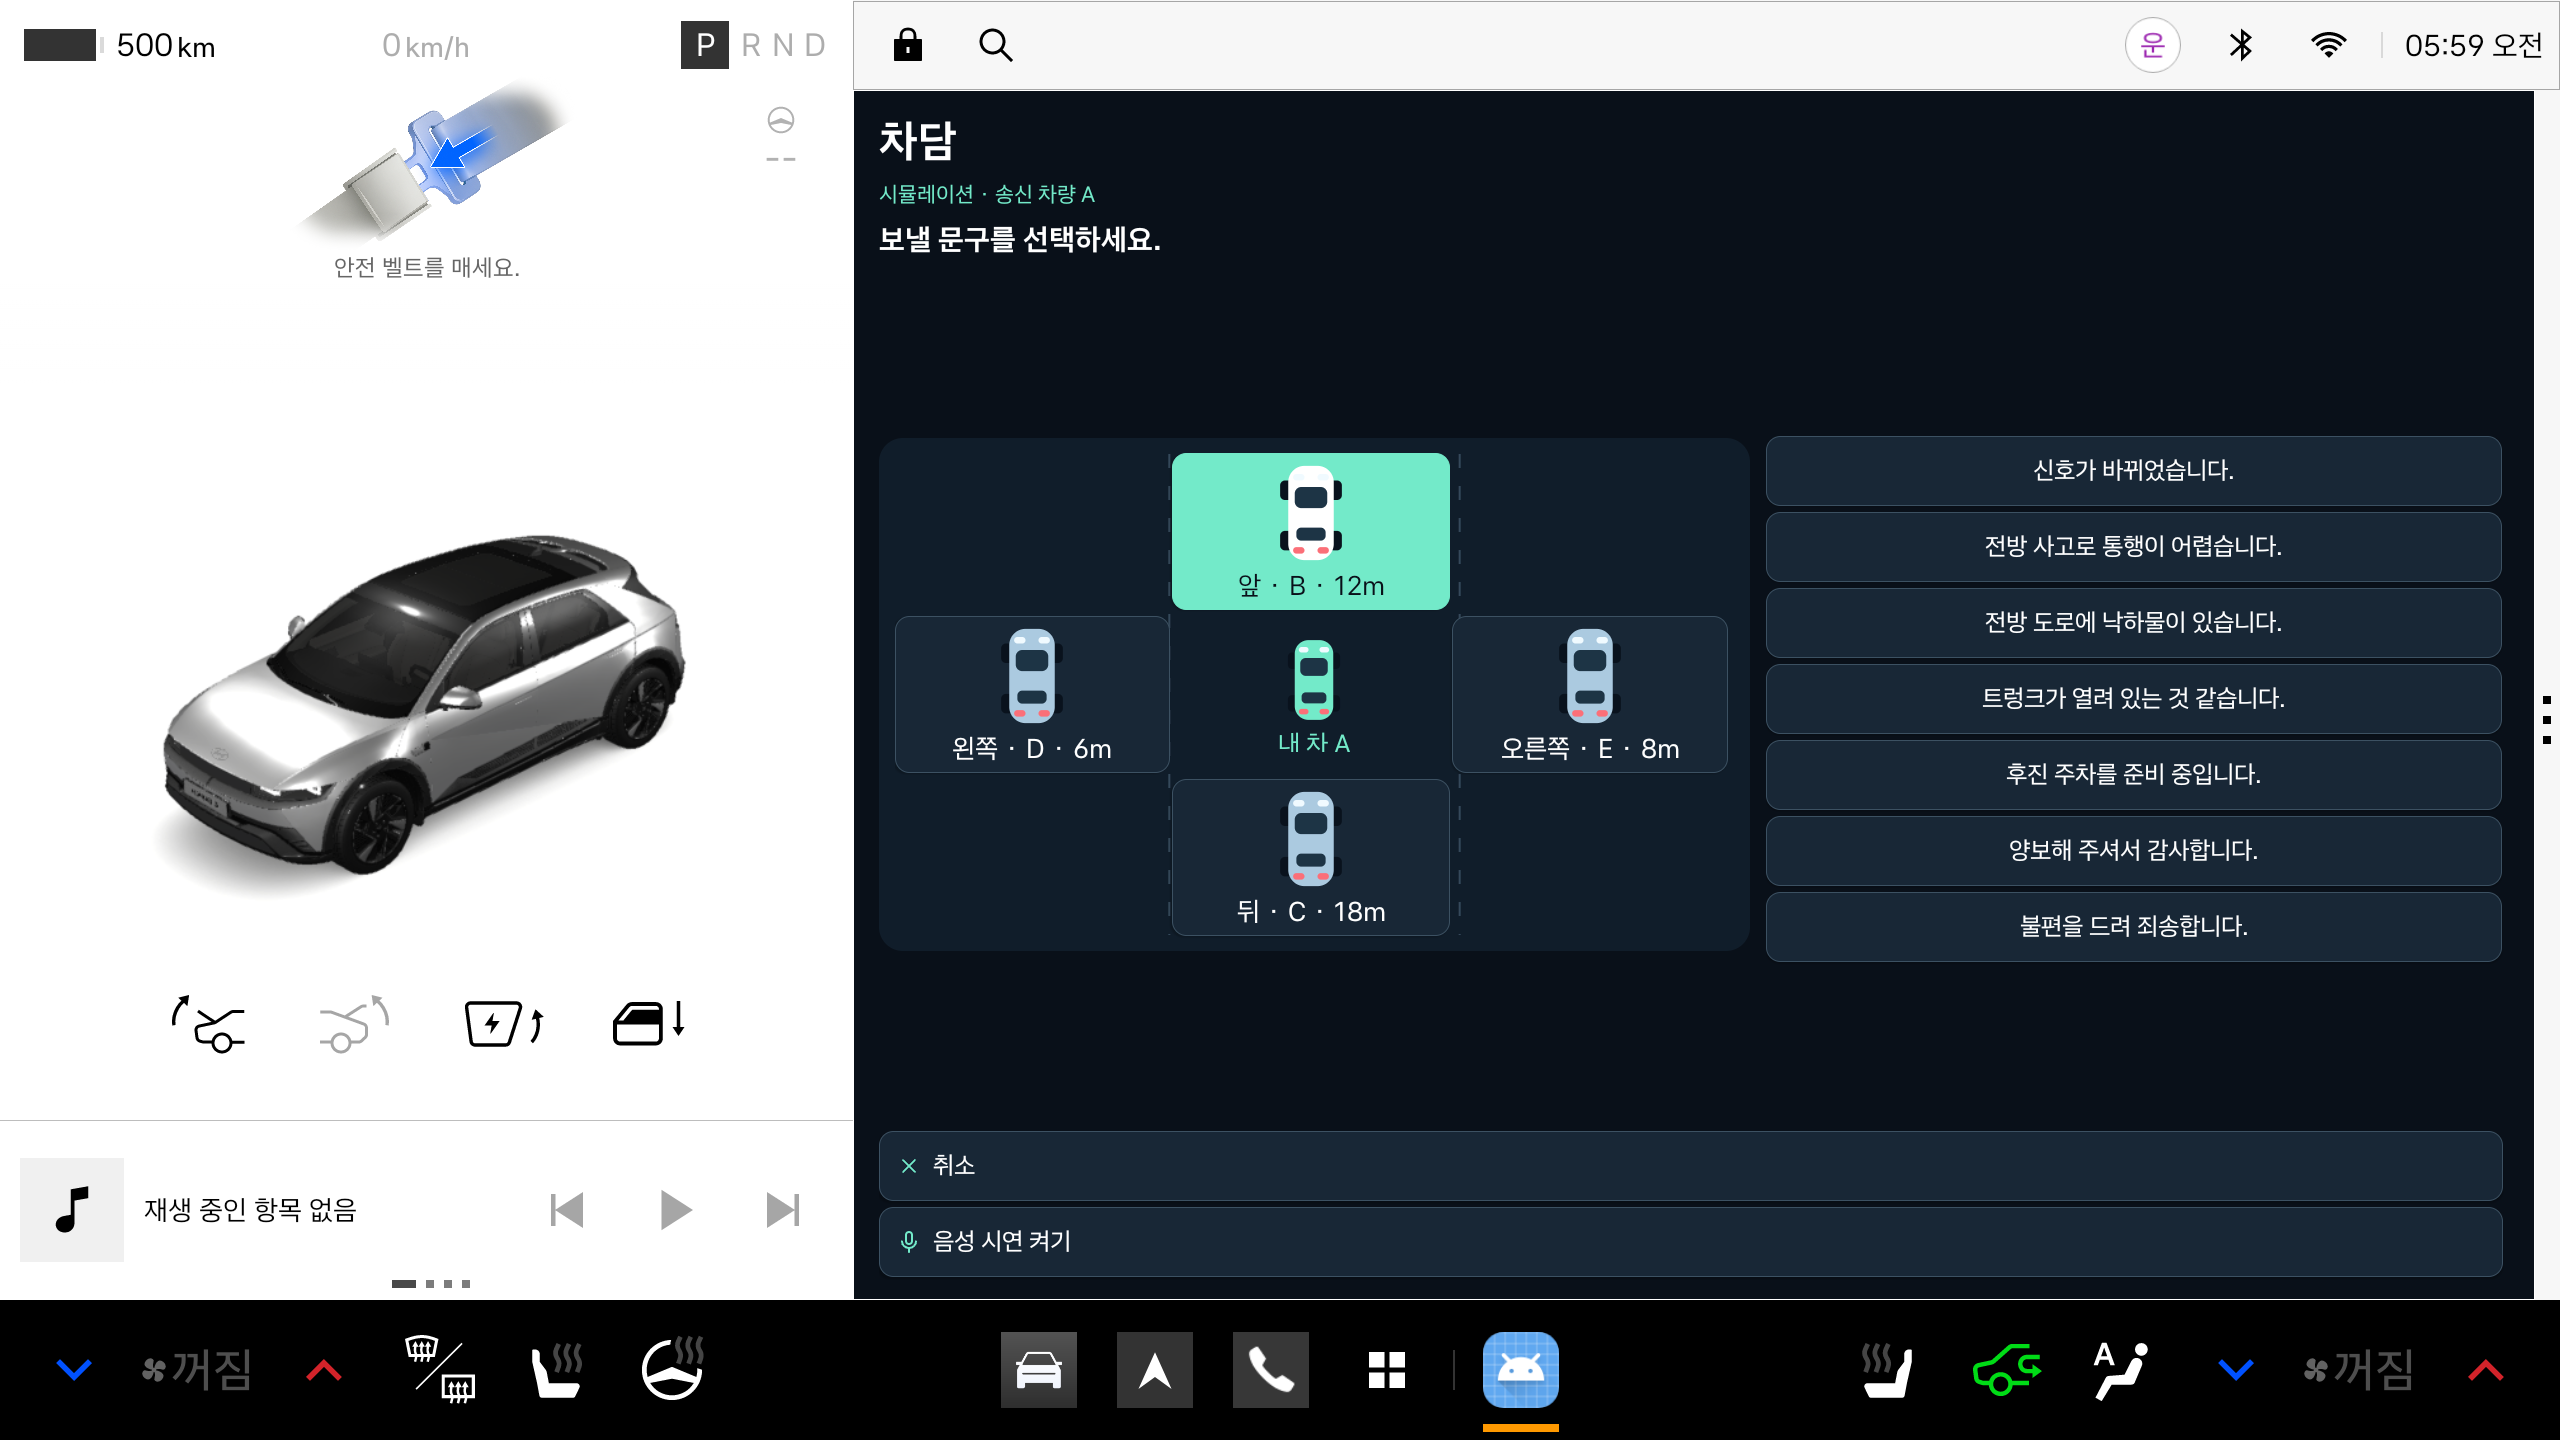
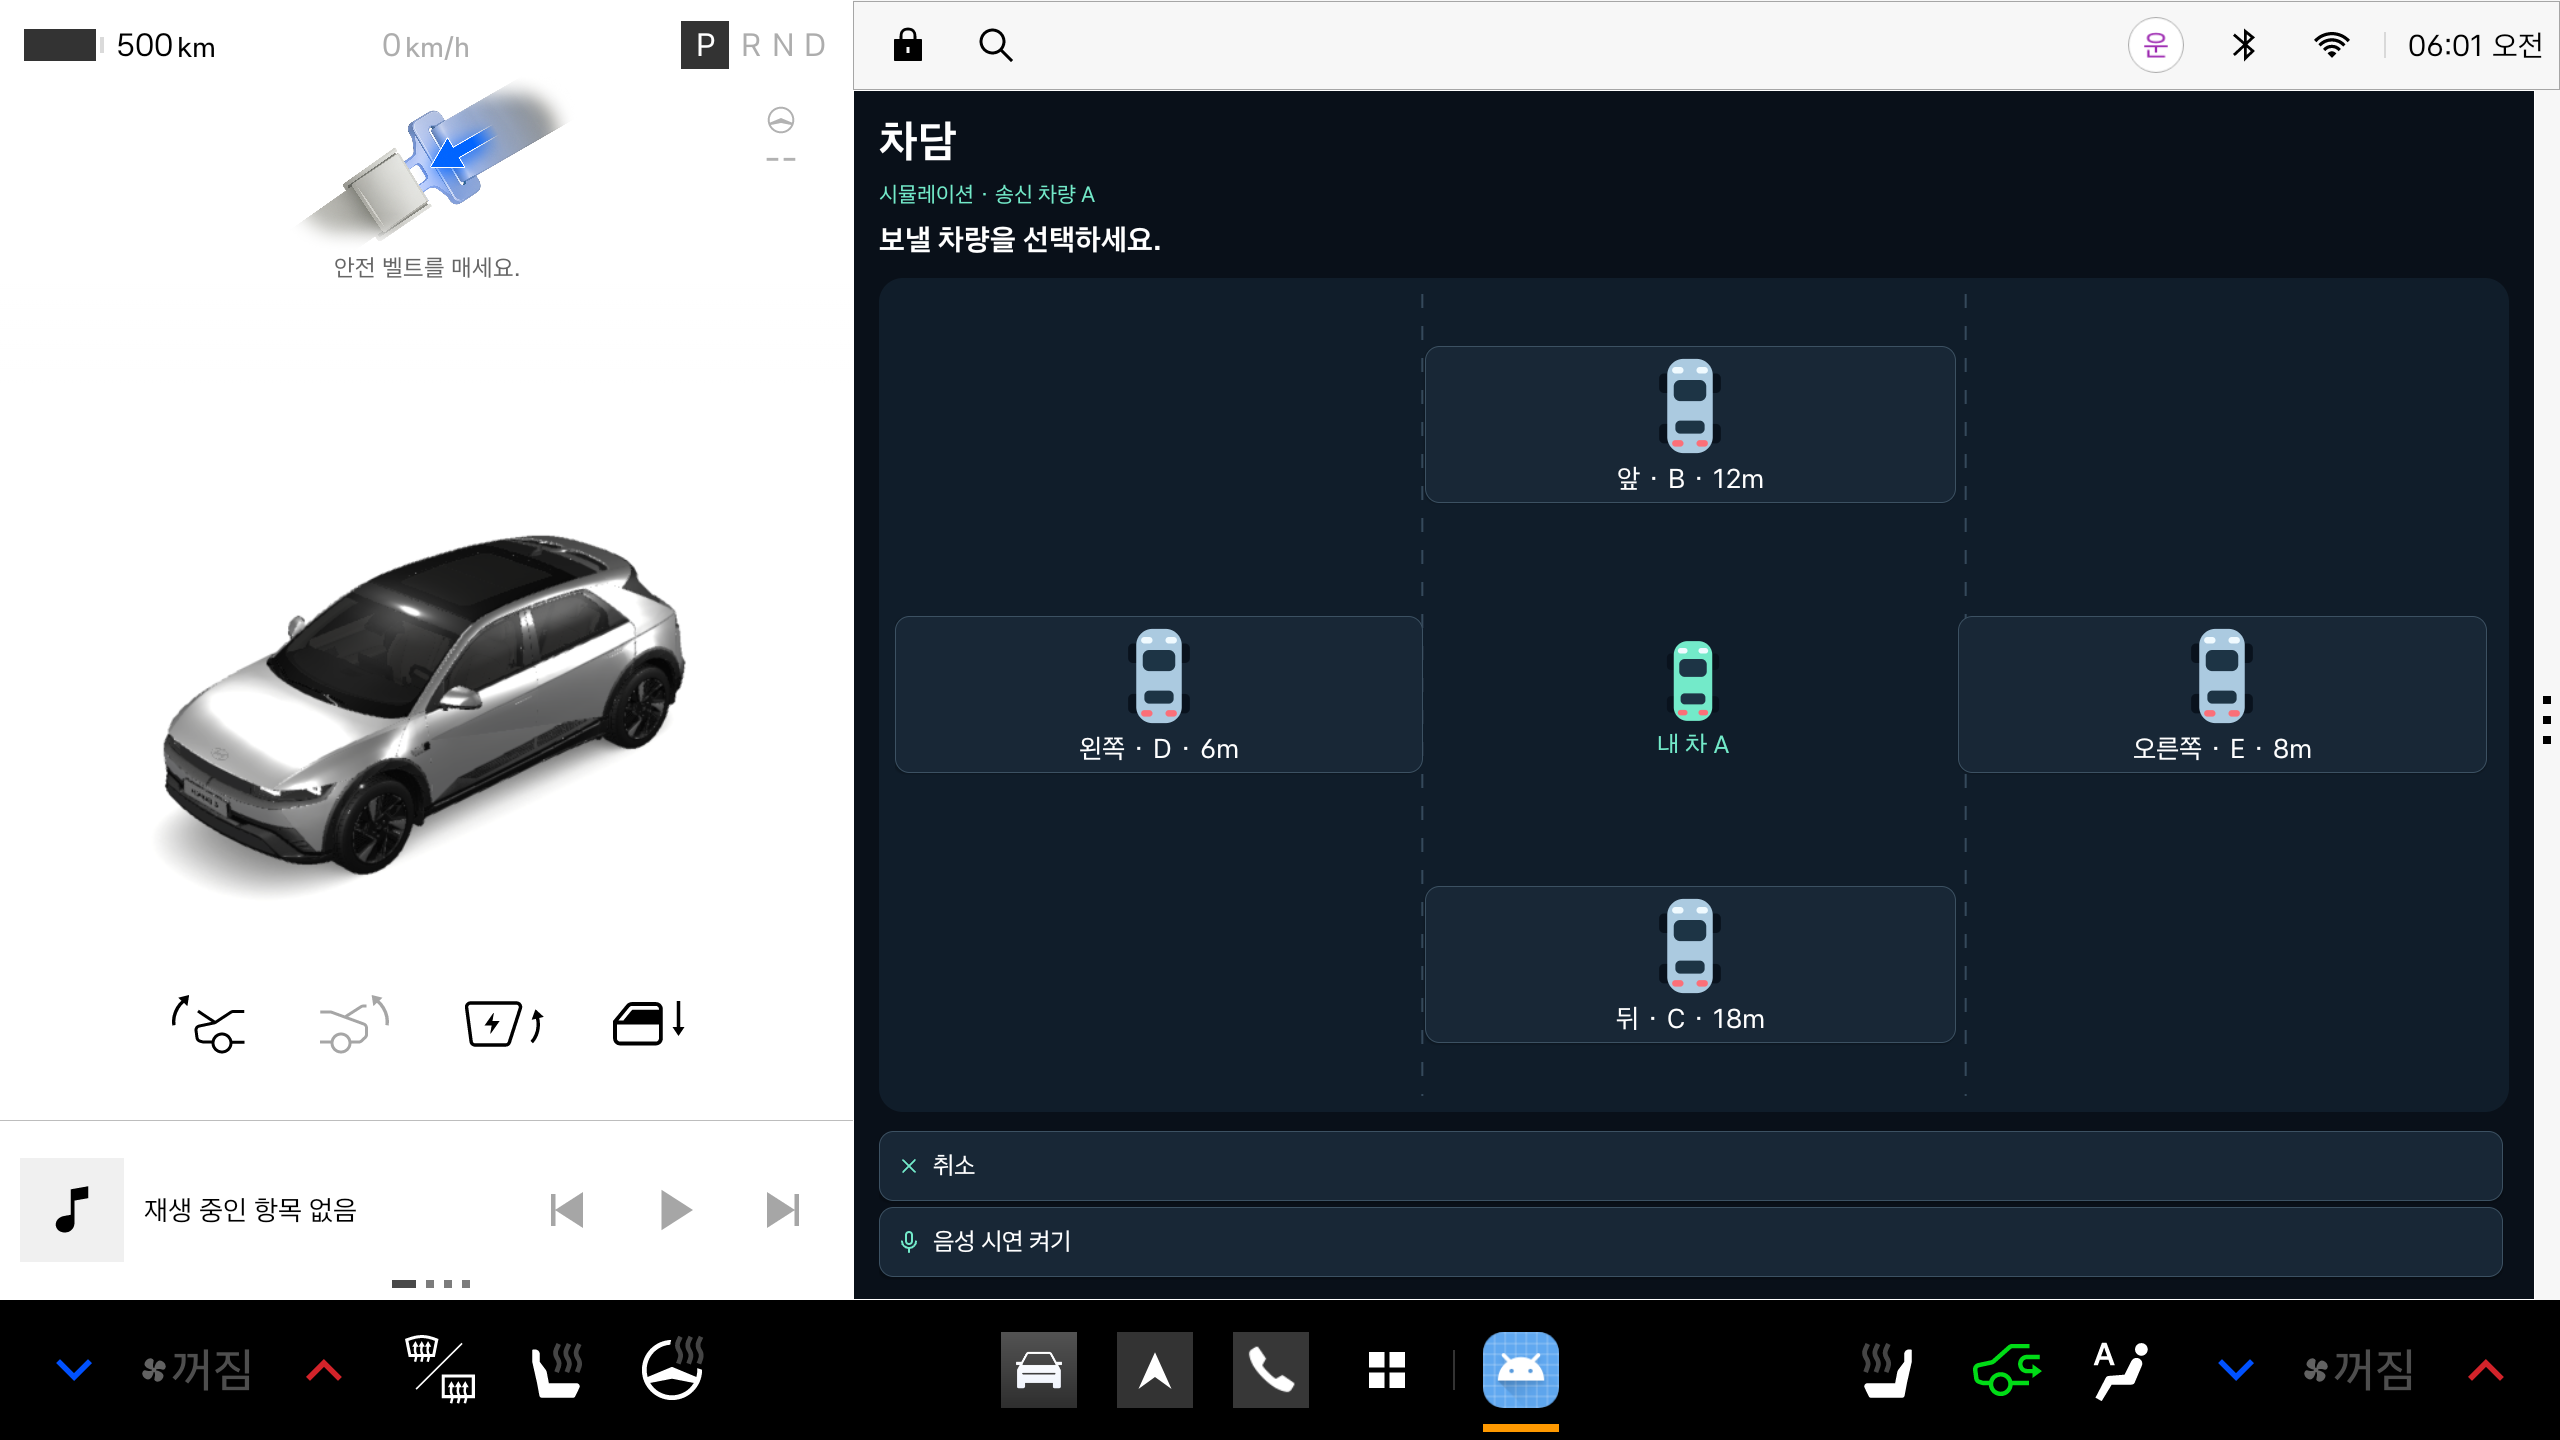
Fix vehicle selection screenshot in README

diff --git a/README.md b/README.md
@@ -6,7 +6,7 @@
 
 | 주변 차량 선택 | 대상과 문구 확인 |
 | --- | --- |
-| ![내 차를 중심으로 표시된 네 대 중 앞 차량을 선택한 화면](docs/screenshots/vehicle-picker.png) | ![앞 차량에 신호 변경 안내를 보내기 전 확인하는 화면](docs/screenshots/send-confirmation.png) |
+| ![내 차를 중심으로 표시된 네 대 중 보낼 차량을 고르는 화면](docs/screenshots/vehicle-picker.png) | ![앞 차량에 신호 변경 안내를 보내기 전 확인하는 화면](docs/screenshots/send-confirmation.png) |
 
 | 수신 알림 | 수락 후 메시지 |
 | --- | --- |
